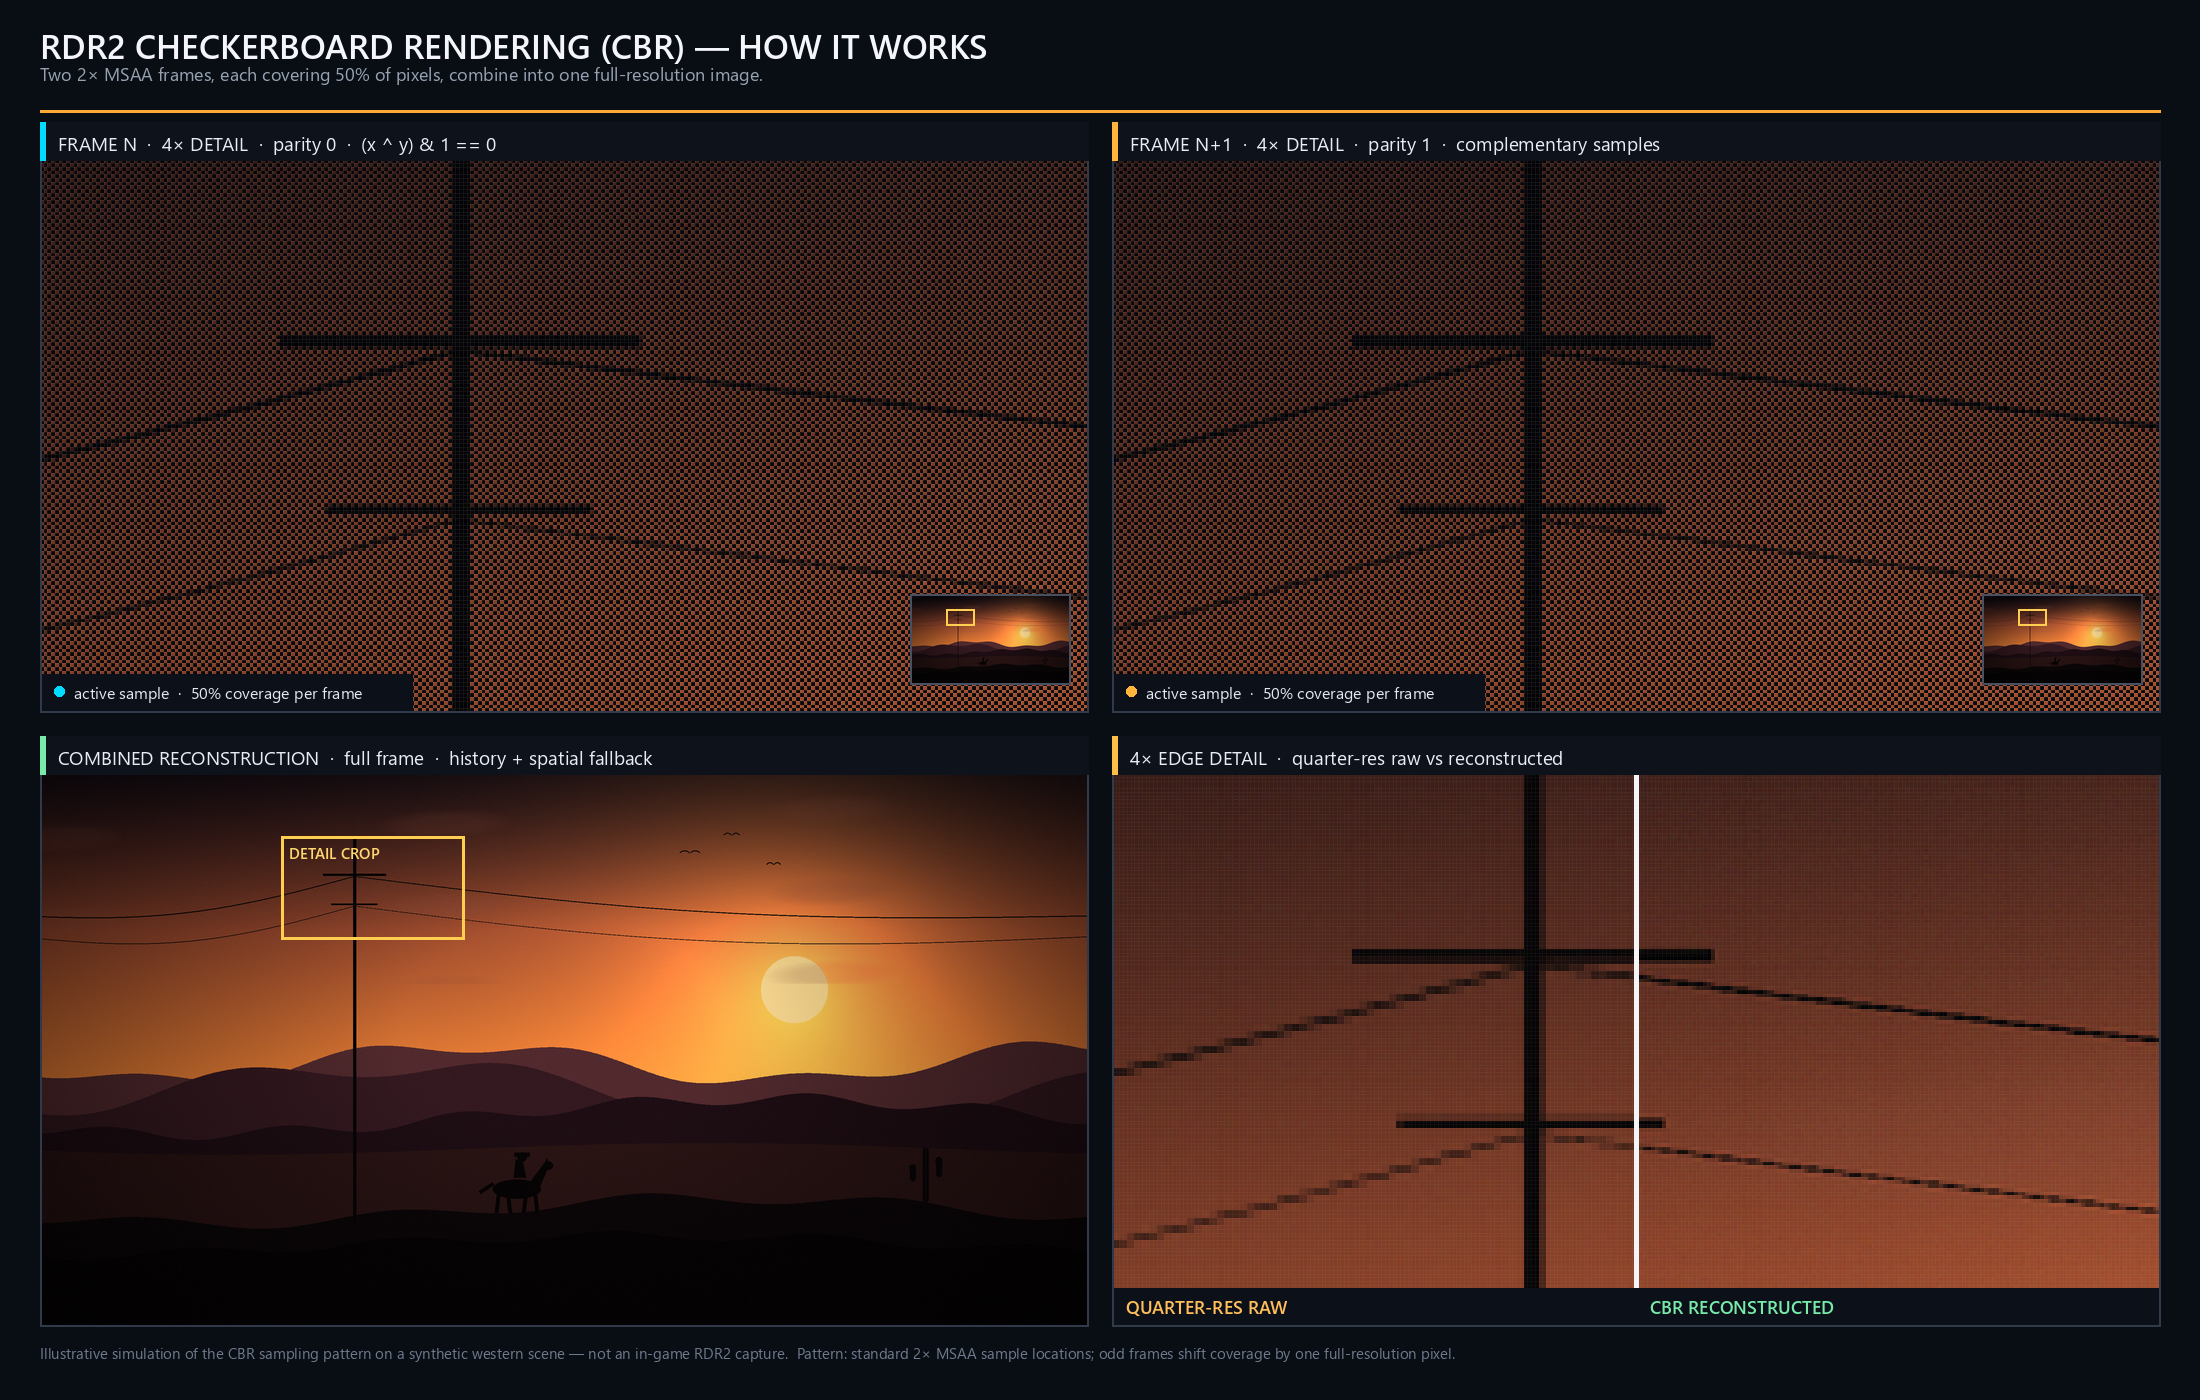
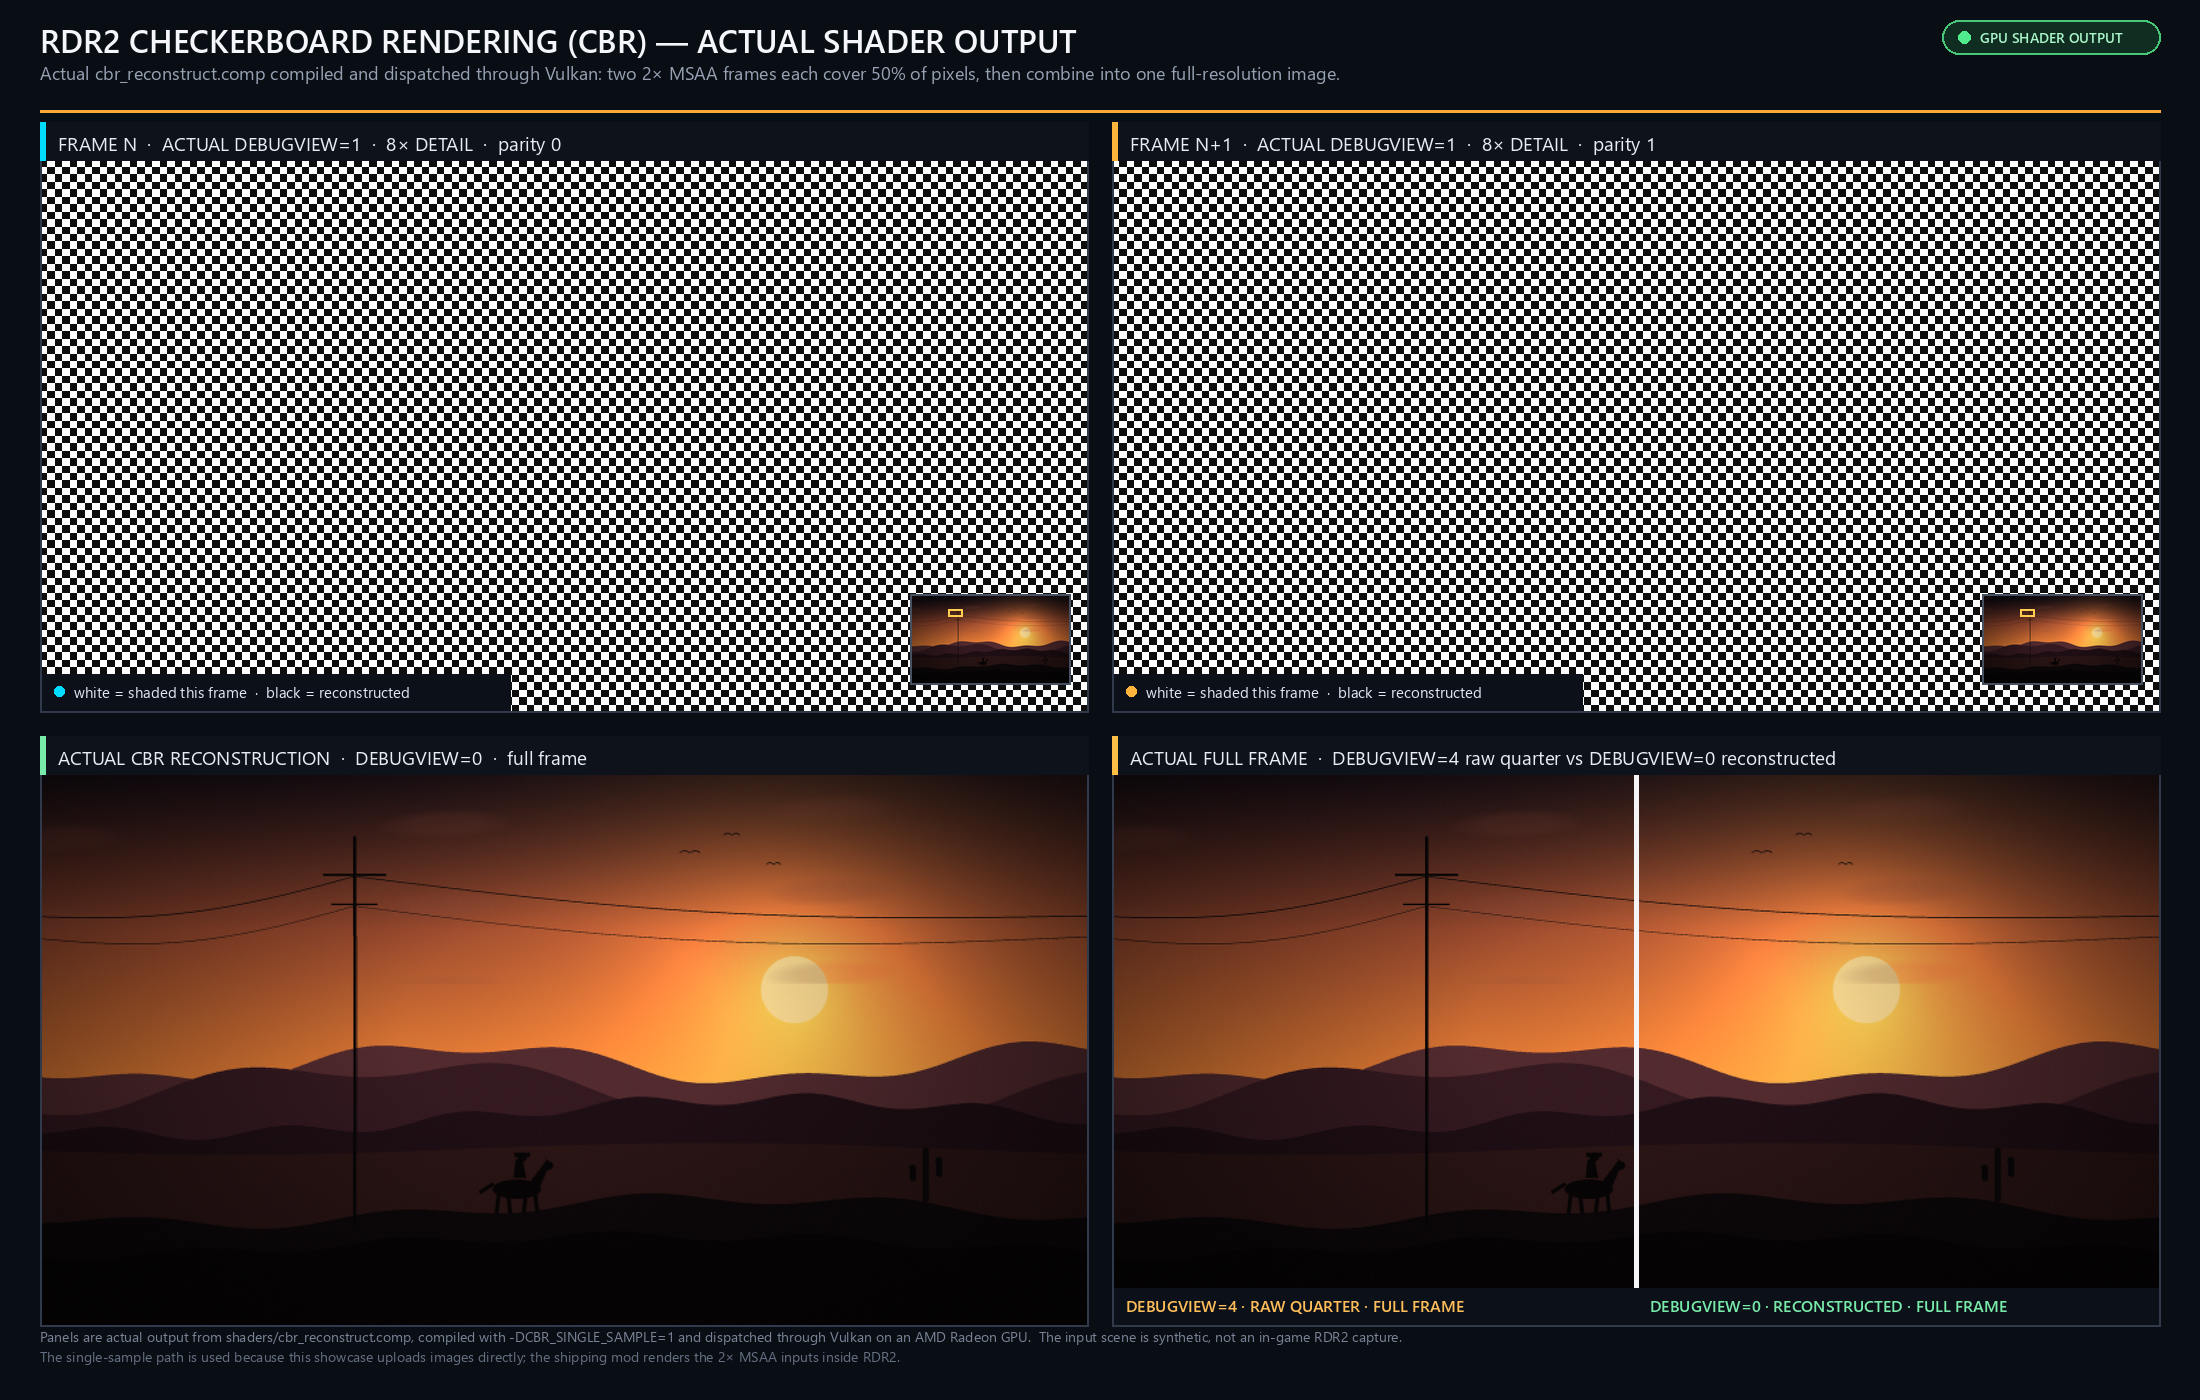
docs(readme): embed cbr_pipeline_showcase.png in How It Works with interactive zoom anchor and sync CODEBASE.md

diff --git a/CODEBASE.md b/CODEBASE.md
@@ -15907,6 +15907,7 @@ A community-driven native ASI graphics modification implementing **Checkerboard 
   <a href="#download-releases">Releases</a> ·
   <a href="#install">Install</a> ·
   <a href="#why-checkerboard-rendering-cbr-vs-dlss--fsr">Why CBR</a> ·
+  <a href="#pipeline-showcase">Pipeline Showcase</a> ·
   <a href="#how-it-works">How It Works</a> ·
   <a href="#documentation">Docs</a> ·
   <a href="#configuration-cbrini">Configuration</a> ·
@@ -15946,7 +15947,7 @@ Pre-built binaries and complete packages are published via CI on [GitHub Release
 - [Download & Releases](#download-releases)
 - [About](#about)
 - [Why Checkerboard Rendering? (CBR vs. DLSS / FSR)](#why-checkerboard-rendering-cbr-vs-dlss--fsr)
-- [How It Works](#how-it-works)
+- [How It Works & Pipeline Showcase](#how-it-works)
 - [Key Features](#key-features)
 - [Architecture & Repository Structure](#architecture--repository-structure)
 - [Engineering Documentation](#documentation)
@@ -15994,6 +15995,15 @@ Conventional spatial/temporal upscalers operate on uniform, non-MSAA low-resolut
 ---
 
 ## How It Works
+
+<a id="pipeline-showcase"></a>
+<p align="center">
+  <a href="docs/assets/cbr_pipeline_showcase.png" target="_blank">
+    <img src="docs/assets/cbr_pipeline_showcase.png" alt="RDR2 Checkerboard Rendering (CBR) Pipeline Architecture Showcase" width="100%">
+  </a>
+  <br>
+  <sub><strong>Figure 1: RDR2 Checkerboard Rendering (CBR) Pipeline Architecture Showcase (2200×1400)</strong> — Complete execution flow from Vulkan / DirectX 12 scene pass interception and quarter-resolution 2× MSAA geometry rasterization, through alternating subpixel sample unpacking and motion-vector temporal reprojection, to variance-clipped history accumulation and full-resolution scene compositing. <em>(Click image to open in full 2200×1400 resolution)</em></sub>
+</p>
 
 ```text
 Frame N:     [ X ] [   ] [ X ] [   ]  <-- Shaded at Quarter-Res 2× MSAA + Strategy A/B Jitter
@@ -16050,6 +16060,8 @@ Checkerboard-Rendering/
 ├── .github/workflows/build.yml      # CI: unit tests, glslang/dxc shaders, MinGW syntax, Release ZIP
 │
 ├── docs/                            # Engineering specifications, audits & hardware guides
+│   ├── assets/                      # Architectural pipeline diagrams & visual showcases
+│   │   └── cbr_pipeline_showcase.png # 2200×1400 full-pipeline architecture showcase diagram
 │   ├── PRD.md                       # Product Requirements Document
 │   ├── SRD.md                       # System Requirements Document
 │   ├── SRS.md                       # Software Requirements Specification (IEEE 830)
@@ -23264,9 +23276,9 @@ diff -ruN '--exclude=CODEBASE.md' up4/tests/test_engine.cpp v4/tests/test_engine
 > This is a binary asset included in the repository.
 > 
 > - **File Name:** `docs/assets/cbr_pipeline_showcase.png`
-> - **File Size:** 1,180,913 bytes (1.13 MiB)
+> - **File Size:** 822,788 bytes (0.78 MiB)
 > - **Format:** PNG Binary Data
[2 lines of base64/hex data omitted]
 
 <a id="sec-vendor-minhook"></a>
 ## 7. Vendor Dependency: MinHook Library (`vendor/minhook/`)

diff --git a/readme.md b/readme.md
@@ -21,6 +21,7 @@ A community-driven native ASI graphics modification implementing **Checkerboard 
   <a href="#download-releases">Releases</a> ·
   <a href="#install">Install</a> ·
   <a href="#why-checkerboard-rendering-cbr-vs-dlss--fsr">Why CBR</a> ·
+  <a href="#pipeline-showcase">Pipeline Showcase</a> ·
   <a href="#how-it-works">How It Works</a> ·
   <a href="#documentation">Docs</a> ·
   <a href="#configuration-cbrini">Configuration</a> ·
@@ -60,7 +61,7 @@ Pre-built binaries and complete packages are published via CI on [GitHub Release
 - [Download & Releases](#download-releases)
 - [About](#about)
 - [Why Checkerboard Rendering? (CBR vs. DLSS / FSR)](#why-checkerboard-rendering-cbr-vs-dlss--fsr)
-- [How It Works](#how-it-works)
+- [How It Works & Pipeline Showcase](#how-it-works)
 - [Key Features](#key-features)
 - [Architecture & Repository Structure](#architecture--repository-structure)
 - [Engineering Documentation](#documentation)
@@ -108,6 +109,15 @@ Conventional spatial/temporal upscalers operate on uniform, non-MSAA low-resolut
 ---
 
 ## How It Works
+
+<a id="pipeline-showcase"></a>
+<p align="center">
+  <a href="docs/assets/cbr_pipeline_showcase.png" target="_blank">
+    <img src="docs/assets/cbr_pipeline_showcase.png" alt="RDR2 Checkerboard Rendering (CBR) Pipeline Architecture Showcase" width="100%">
+  </a>
+  <br>
+  <sub><strong>Figure 1: RDR2 Checkerboard Rendering (CBR) Pipeline Architecture Showcase (2200×1400)</strong> — Complete execution flow from Vulkan / DirectX 12 scene pass interception and quarter-resolution 2× MSAA geometry rasterization, through alternating subpixel sample unpacking and motion-vector temporal reprojection, to variance-clipped history accumulation and full-resolution scene compositing. <em>(Click image to open in full 2200×1400 resolution)</em></sub>
+</p>
 
 ```text
 Frame N:     [ X ] [   ] [ X ] [   ]  <-- Shaded at Quarter-Res 2× MSAA + Strategy A/B Jitter
@@ -164,6 +174,8 @@ Checkerboard-Rendering/
 ├── .github/workflows/build.yml      # CI: unit tests, glslang/dxc shaders, MinGW syntax, Release ZIP
 │
 ├── docs/                            # Engineering specifications, audits & hardware guides
+│   ├── assets/                      # Architectural pipeline diagrams & visual showcases
+│   │   └── cbr_pipeline_showcase.png # 2200×1400 full-pipeline architecture showcase diagram
 │   ├── PRD.md                       # Product Requirements Document
 │   ├── SRD.md                       # System Requirements Document
 │   ├── SRS.md                       # Software Requirements Specification (IEEE 830)
